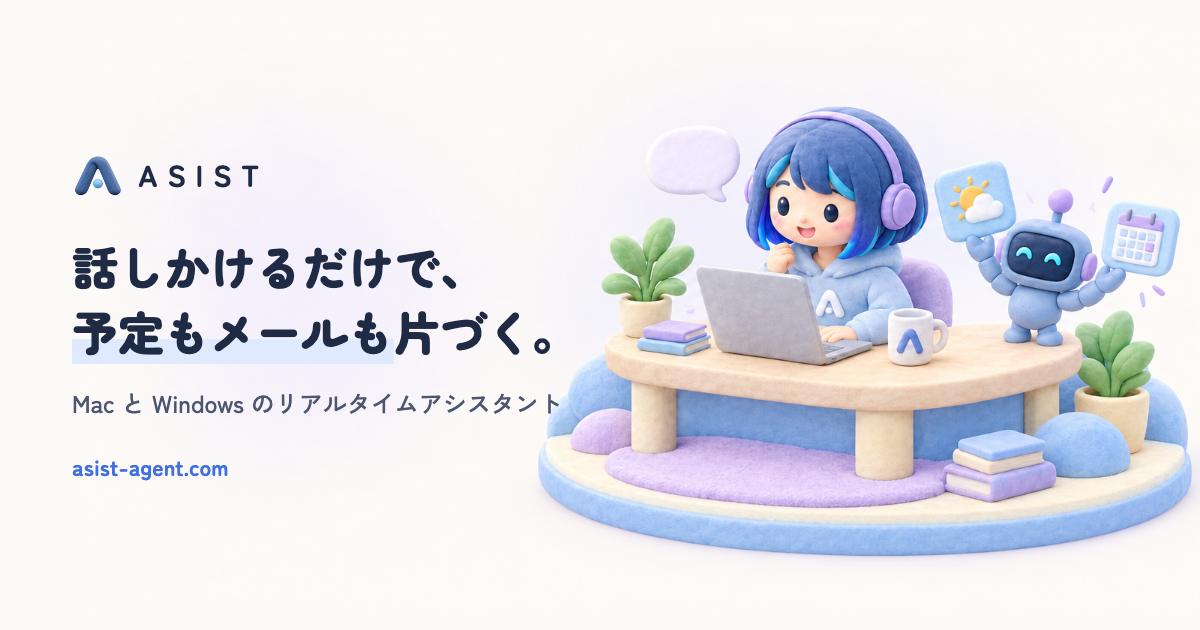
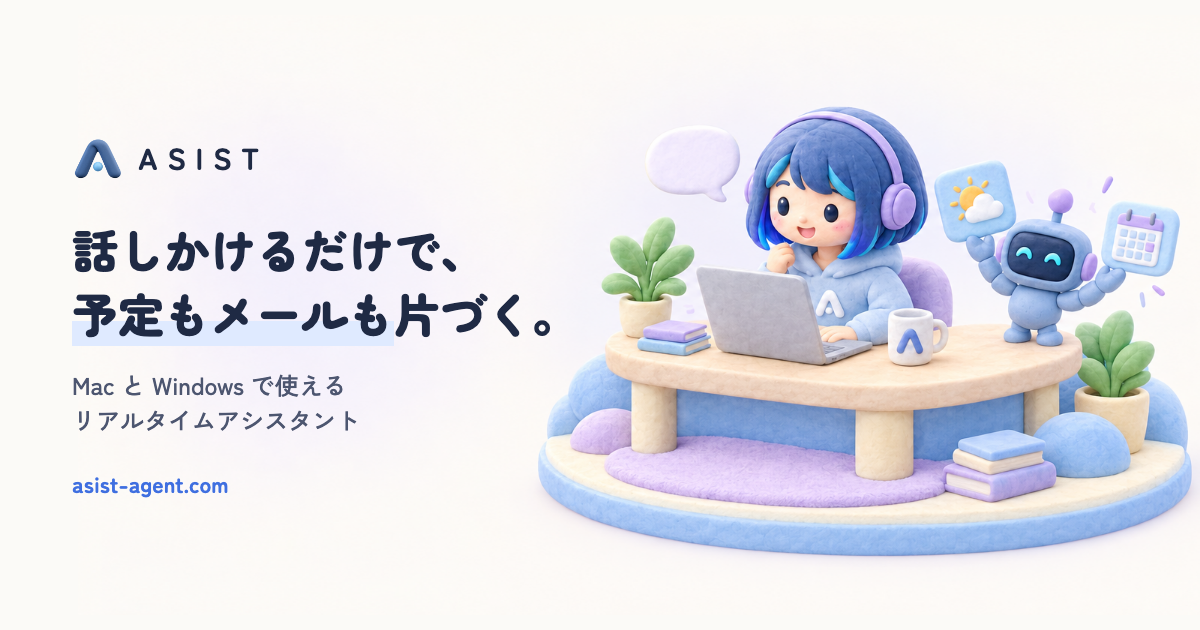
Correct the Windows documentation where a review found it inaccurate or unclear
- Troubleshooting: an NVIDIA GPU with a driver older than 580 is reported as no GPU, because those drivers
  put nvidia-smi outside System32, so the page tells that person to update the driver first.
- The macOS update status, "Restart now" and the README's update step go back to their earlier wording;
  the macOS auto-update is not on main yet, so the branch adds no new statement of it.
- The microphone page no longer claims the Windows echo canceller removes other apps' sound, which has
  not been measured; it says sound from the speakers is less likely to reach the microphone.
- The calendar page no longer promises Google Calendar on Windows.
- Japanese wording is made plainer in several places, the Windows microphone setting is quoted by its
  Japanese name, and the Japanese OG line reads "Mac と Windows で使える" on two lines so it clears the
  picture.

Changed region(s): [[0.0617, 0.3619, 0.4625, 0.6937], [0.0617, 0.2111, 0.2158, 0.3016], [0.0617, 0.7238, 0.185, 0.7841]]

diff --git a/website/og/og.html b/website/og/og.html
@@ -23,7 +23,7 @@
   <div class="copy">
     <div class="logo"><img src="../public/icons/asist.png" alt="" /><span>ASIST</span></div>
     <h1>話しかけるだけで、<br /><mark>予定もメールも</mark>片づく。</h1>
-    <p>Mac と Windows のリアルタイムアシスタント</p>
+    <p>Mac と Windows で使える<br />リアルタイムアシスタント</p>
     <div class="url">asist-agent.com</div>
   </div>
 </body>

diff --git a/website/src/content/docs/en/docs/privacy/index.md b/website/src/content/docs/en/docs/privacy/index.md
@@ -37,7 +37,7 @@ The speech recognition and speech models are downloaded into the standard Huggin
 API keys and mail passwords saved in the settings are encrypted with Electron's safeStorage and are never written as plain text. If encryption isn't available, ASIST doesn't save them and shows an error instead. How the encryption key is protected differs by OS.
 
 - On macOS, the key is kept in the keychain. If an app other than ASIST tries to read it, macOS asks you first.
-- On Windows, the key is encrypted with DPAPI, tied to your Windows user account, and kept in `Local State` in the folder of settings and data. Any program running as the same Windows user can decrypt this key and take out the saved keys. It protects them only when the files alone reach another user or another computer.
+- On Windows, the key is encrypted with DPAPI, tied to your Windows user account, and kept in `Local State` in the folder of settings and data. Any program running as the same Windows user can decrypt this key and take out the saved keys. What this encryption prevents is someone reading them when only the files reach another user or another computer.
 
 Child processes such as the Agent CLI, the Python workers and the speech engines receive no provider's API key.
 

diff --git a/website/src/content/docs/docs/settings/index.md b/website/src/content/docs/docs/settings/index.md
@@ -13,4 +13,4 @@ sidebar:
 
 ## このアプリについて
 
-最後のページ「このアプリについて」には、ASIST のバージョン、ライセンス、使っているモデルと外部のデータの一覧が出ます。一覧の行には、提供元とライセンス、提供元のページへのリンクを並べています。Mac では更新の状態も出て、新しいバージョンを取得し終えていれば、「今すぐ再起動」で入れ替えられます。Windows での更新は、[更新とアンインストール](/docs/start/update/)にあります。
+最後のページ「このアプリについて」には、ASIST のバージョン、更新の状態、ライセンス、使っているモデルと外部のデータの一覧が出ます。一覧の行には、提供元とライセンス、提供元のページへのリンクを並べています。新しいバージョンを取得し終えていれば、「今すぐ再起動」で入れ替えられます。Windows での更新は、[更新とアンインストール](/docs/start/update/)にあります。

diff --git a/README.md b/README.md
@@ -57,7 +57,7 @@ You need an Apple Silicon Mac with macOS 14 or later, or an x64 PC with Windows 
 
 1. Download from [Releases](https://github.com/nyosegawa/asist/releases/latest). On a Mac, download `ASIST-arm64.dmg` and drag ASIST into Applications. On Windows, download `ASIST Setup <version>.exe` and open it; the installer is not signed yet, so click “More info”, then “Run anyway” when SmartScreen warns you.
 2. Open ASIST and pick the language, model, voice and microphone in the first-run setup.
-3. Start talking. On a Mac, new versions arrive on their own and install the next time you quit. On Windows, install a new version over the old one with its installer; your data stays.
+3. Start talking. New versions arrive on their own and install the next time you quit. On Windows, install a new version over the old one with its installer; your data stays.
 
 Step-by-step pages with screenshots, the microphone and calendar permissions, and setting up the agent CLI are in [Getting started](https://asist-agent.com/en/docs/start/).
 

diff --git a/website/src/content/docs/en/docs/settings/index.md b/website/src/content/docs/en/docs/settings/index.md
@@ -13,4 +13,4 @@ Open the settings with the gear icon in the Dock. The list of pages is on the le
 
 ## About
 
-The last page, "About", shows the version of ASIST, the licenses, and a list of the models and outside data ASIST uses. Each row of the list shows the provider, the license and a link to the provider's page. On a Mac it also shows the update status, and once a new version has finished downloading, "Restart now" switches to it. Updating on Windows is covered in [Updating and uninstalling](/en/docs/start/update/).
+The last page, "About", shows the version of ASIST, the update status, the licenses, and a list of the models and outside data ASIST uses. Each row of the list shows the provider, the license and a link to the provider's page. Once a new version has finished downloading, "Restart now" switches to it. Updating on Windows is covered in [Updating and uninstalling](/en/docs/start/update/).

diff --git a/website/src/content/docs/docs/reference/memory.md b/website/src/content/docs/docs/reference/memory.md
@@ -5,7 +5,7 @@ sidebar:
   order: 2
 ---
 
-準備したモデルは、それぞれ専用のプロセスに常駐します。次の表は Mac の値で、M5(32GB)で、起動から 30 秒後に `vmmap --summary` の physical footprint を測った値です。
+準備したモデルは、それぞれ専用のプロセスに常駐します。次の表は、Mac の M5(32GB)で、起動から 30 秒後に `vmmap --summary` の physical footprint を測った値です。
 
 | プロセス | モデル | メモリ | 動く条件 | 測った日 |
 |---|---|---|---|---|

diff --git a/website/src/content/docs/en/docs/reference/memory.md b/website/src/content/docs/en/docs/reference/memory.md
@@ -5,7 +5,7 @@ sidebar:
   order: 2
 ---
 
-Each prepared model stays resident in a process of its own. The table below is for a Mac: the values are the physical footprint from `vmmap --summary`, measured 30 seconds after launch on an M5 (32GB).
+Each prepared model stays resident in a process of its own. The table below gives the physical footprint from `vmmap --summary`, measured 30 seconds after launch on an M5 Mac (32GB).
 
 | Process | Model | Memory | Runs when | Measured on |
 |---|---|---|---|---|
